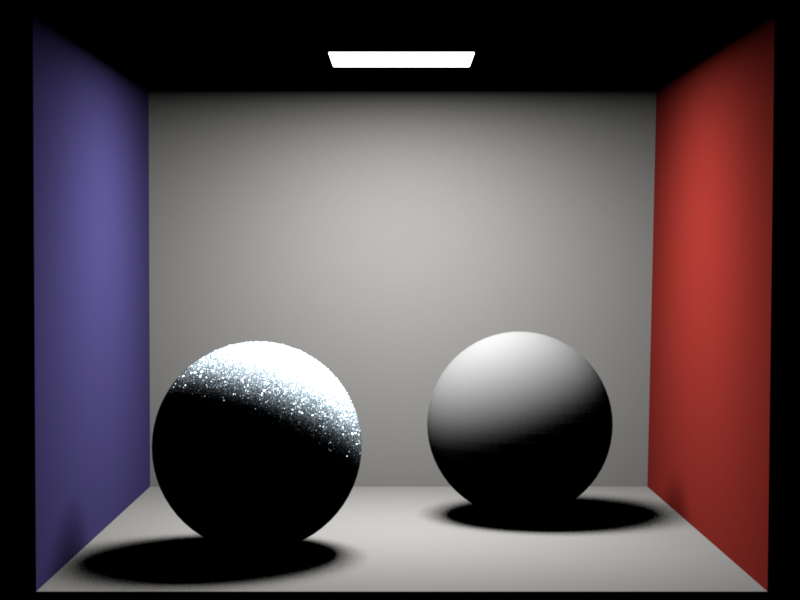
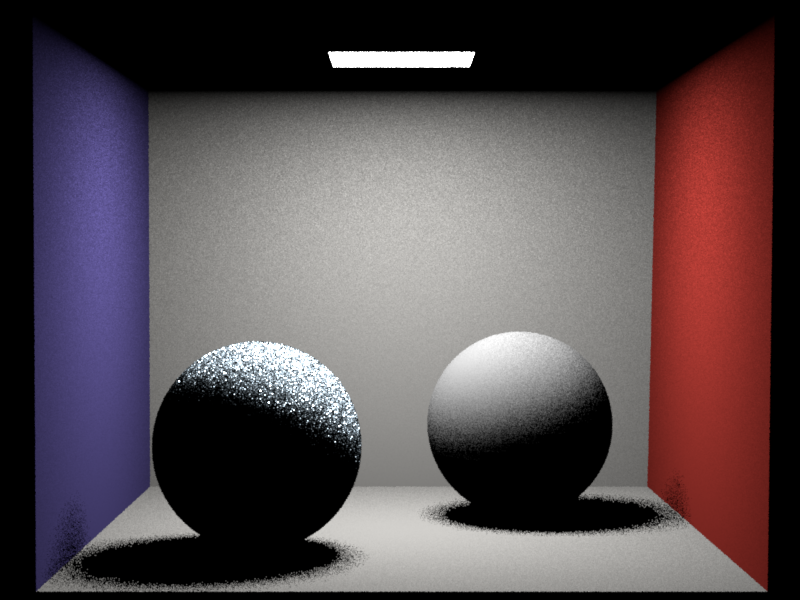
Fixed BSDF sampling

diff --git a/src/whitted.cpp b/src/whitted.cpp
@@ -49,7 +49,7 @@ public:
         float pdf;
         Color3f f = Pth::sampleBSDF(state, sampler, query, pdf);
 
-        pdf = pdf * roulettePdf * pointPdf;
+        pdf = roulettePdf * pointPdf;
         depth++;
 
         // Compute the contribution
